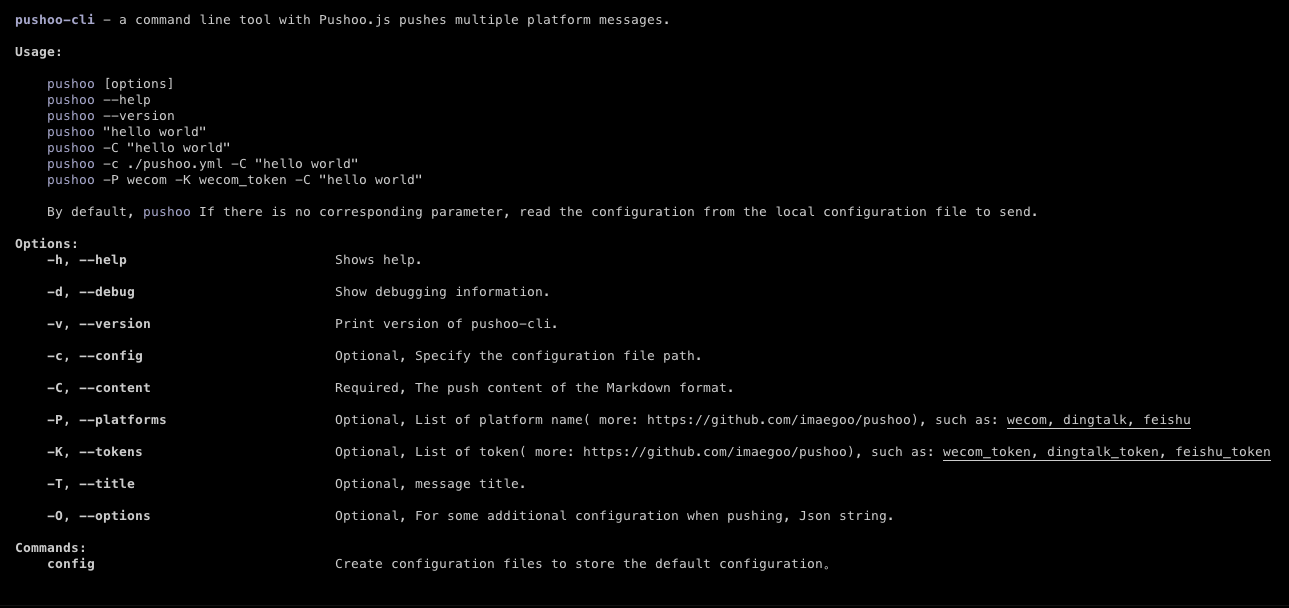
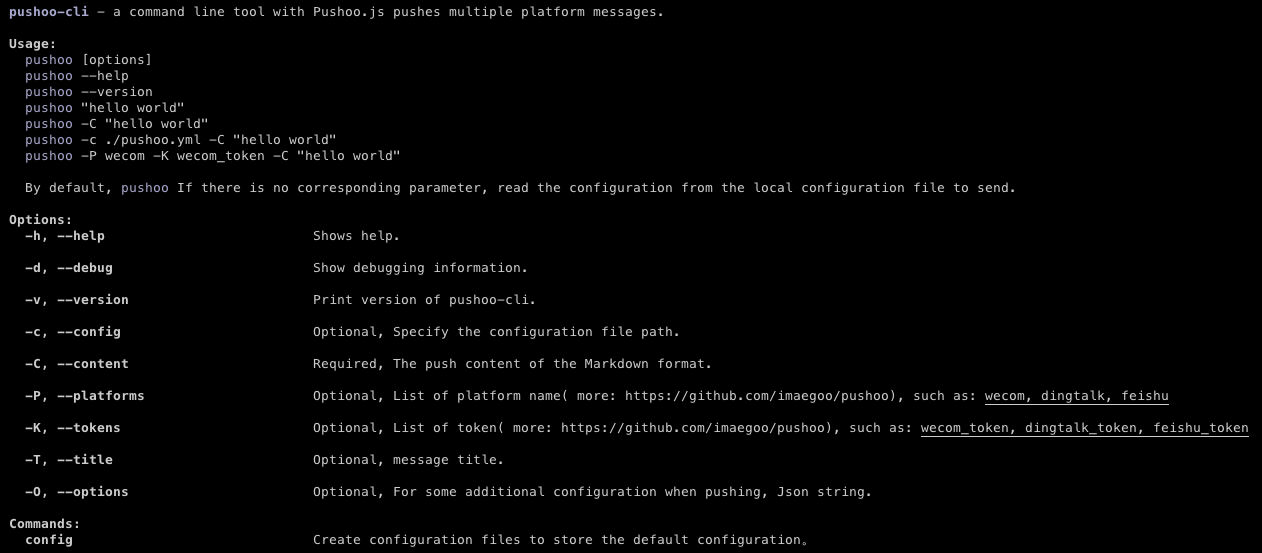
refactor: style

diff --git a/src/utils/cli.ts b/src/utils/cli.ts
@@ -17,41 +17,40 @@ import { resolve } from './promise';
 
 // The help text for the CLI.
 const helpText = chalkTemplate`
-  {bold.cyan pushoo-cli} - a command line tool with Pushoo.js pushes multiple platform messages.
+{bold.cyan pushoo-cli} - a command line tool with Pushoo.js pushes multiple platform messages.
 
-  {bold Usage:}
+{bold Usage:}
+  {cyan pushoo} [options]
+  {cyan pushoo} --help
+  {cyan pushoo} --version
+  {cyan pushoo} "hello world"
+  {cyan pushoo} -C "hello world"
+  {cyan pushoo} -c ./pushoo.yml -C "hello world"
+  {cyan pushoo} -P wecom -K wecom_token -C "hello world"
 
-      {cyan pushoo} [options]
-      {cyan pushoo} --help
-      {cyan pushoo} --version
-      {cyan pushoo} "hello world"
-      {cyan pushoo} -C "hello world"
-      {cyan pushoo} -c ./pushoo.yml -C "hello world"
-      {cyan pushoo} -P wecom -K wecom_token -C "hello world"
+  By default, {cyan pushoo} If there is no corresponding parameter, read the configuration from the local configuration file to send.
 
-      By default, {cyan pushoo} If there is no corresponding parameter, read the configuration from the local configuration file to send.
+{bold Options:}
+  {bold -h, --help}                          Shows help.
 
-  {bold Options:}
-      {bold -h, --help}                          Shows help.
+  {bold -d, --debug}                         Show debugging information.
 
-      {bold -d, --debug}                         Show debugging information.
+  {bold -v, --version}                       Print version of pushoo-cli.
 
-      {bold -v, --version}                       Print version of pushoo-cli.
+  {bold -c, --config}                        Optional, Specify the configuration file path.
 
-      {bold -c, --config}                        Optional, Specify the configuration file path.
+  {bold -C, --content}                       Required, The push content of the Markdown format.
 
-      {bold -C, --content}                       Required, The push content of the Markdown format.
+  {bold -P, --platforms}                     Optional, List of platform name( more: https://github.com/imaegoo/pushoo), such as: {underline wecom, dingtalk, feishu}
 
-      {bold -P, --platforms}                     Optional, List of platform name( more: https://github.com/imaegoo/pushoo), such as: {underline wecom, dingtalk, feishu}
+  {bold -K, --tokens}                        Optional, List of token( more: https://github.com/imaegoo/pushoo), such as: {underline wecom_token, dingtalk_token, feishu_token}
 
-      {bold -K, --tokens}                        Optional, List of token( more: https://github.com/imaegoo/pushoo), such as: {underline wecom_token, dingtalk_token, feishu_token}
+  {bold -T, --title}                         Optional, message title.
 
-      {bold -T, --title}                         Optional, message title.
+  {bold -O, --options}                       Optional, For some additional configuration when pushing, Json string.
 
-      {bold -O, --options}                       Optional, For some additional configuration when pushing, Json string.
-
-  {bold Commands:}
-      {bold config}                              Create configuration files to store the default configuration。
+{bold Commands:}
+  {bold config}                              Create configuration files to store the default configuration。
 `;
 
 /**

diff --git a/src/main.ts b/src/main.ts
@@ -104,6 +104,12 @@ const run = async (): Promise<void> => {
     cli_options.content = args._[0];
   }
 
+  // if content is not set, show help text and exit
+  if (!cli_options.content && cli_options.content === '') {
+    logger.log(getHelpText());
+    exit(0);
+  }
+
   utils.checkRequiredAttributes(cli_options, [
     'platforms',
     'tokens',
